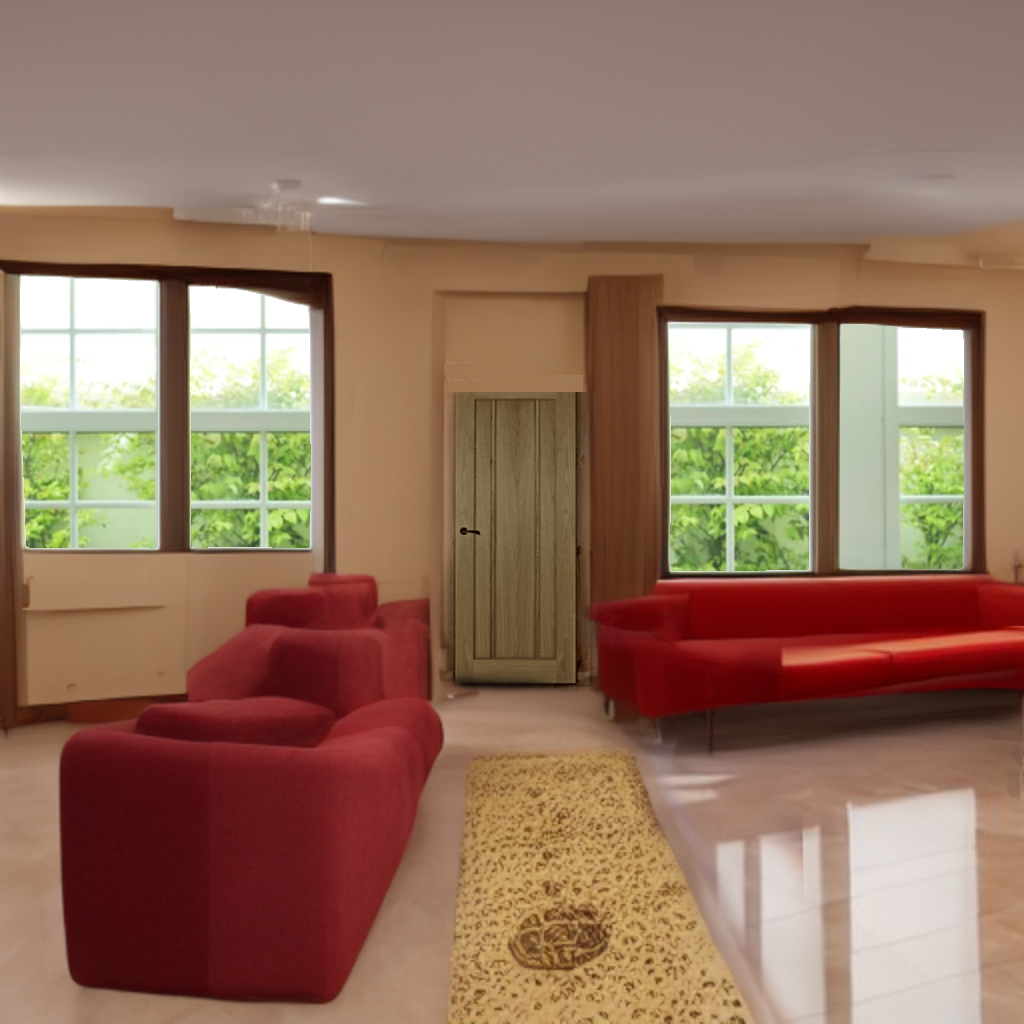
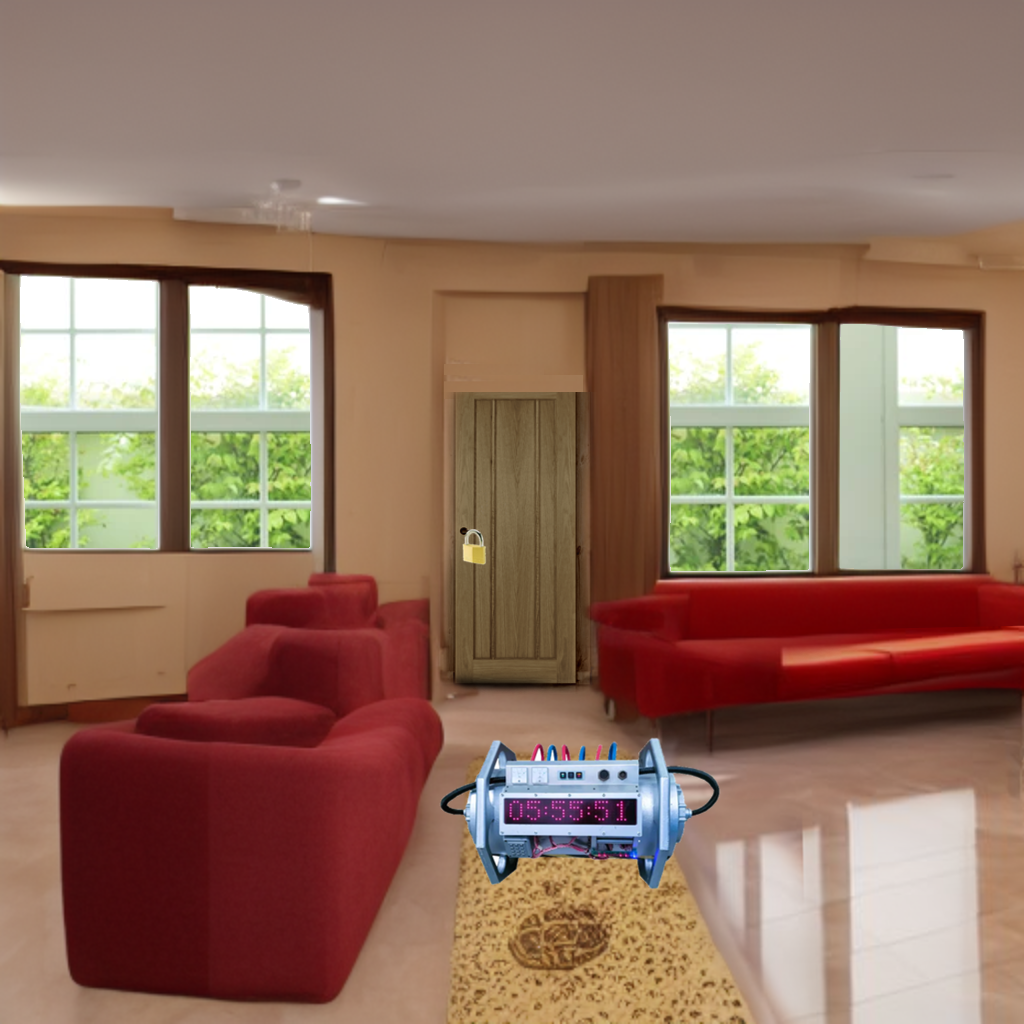
end

Changed region(s): [[0.4375, 0.7188, 0.7188, 0.875], [0.4375, 0.5, 0.5, 0.5625]]

diff --git a/Chapters/chapter1.js b/Chapters/chapter1.js
@@ -1,13 +1,17 @@
 ///// Global Variables /////
 currentRoom = "hall"
 hiddenItems = {kitchen:{}, hall:{}, lounge:{}, piano:{}, tv:{}}
-hiddenItems.piano["in the piano"] = "teddy bear"
+hiddenItems.lounge["under the rug"] = "a note, saying 'In the kitchen, search: 'in the fridge'"
+hiddenItems.kitchen["in the fridge"] = "a note, saying 'In the TV room, search: 'in the tv cabinet'"
+hiddenItems.kitchen["in the fruit bowl"] = "a note, saying 'In the TV room, search: 'in the fireplace'"
+hiddenItems.tv["under the armchair"] = "a note, saying 'In the piano room, search: 'in the piano'"
+hiddenItems.piano["in the piano"] = "RIPPED"
 roomFunctions={}
 
 ////// Page Functions //////
 
 function searchEnter() {
-  found = hiddenItems[currentRoom][input.value]
+  found = hiddenItems[currentRoom][input.value.toLowerCase()]
   if (found==null) {
     setPage ({
       showInput: false,
@@ -16,7 +20,16 @@ function searchEnter() {
         ["Okay", roomFunctions[currentRoom]]
       ]
     })
-  } else {
+  } else if (found=="RIPPED") {
+      setPage ({
+      showInput: false,
+      imageName: "Images/ripped.png",
+      text: "You search " + input.value + ". You find a strange ripped half of a note.",
+      buttons: [
+        ["Huzzah", roomFunctions[currentRoom]]
+      ]
+    })
+  } else{
     setPage ({
       showInput: false,
       text: "You search " + input.value + ". You find a " + found + "! (:",
@@ -39,6 +52,28 @@ function search() {
   })
 }
 
+function start() {
+  setPage ({
+    showInput: false,
+    imageName: "Images/lounge.png",
+    text: "You have arrived in a strange haunted house.\nThe door locks behind you, and an ominous ticking sounds.\nYou need a 5-digit code to deactivate the bomb.",
+    buttons: [
+      ["Oh no!", exp]
+    ]
+  })
+}
+
+function exp() {
+  setPage ({
+    showInput: false,
+    imageName: "Images/lounge.png",
+    text: "You will need to collect 5 magical mattes to solve this mystery.\nEach room has a 'search' button.\nTo begin, 'search' in this room 'under the rug'.",
+    buttons: [
+      ["Okay then", roomFunctions.lounge]
+    ]
+  })
+}
+
 
 
 roomFunctions.hall = function() {
@@ -46,14 +81,24 @@ roomFunctions.hall = function() {
   setPage ({
     showInput: false,
     imageName: "Images/south_hallway.jpeg",
-    text: "You are in a hallway.\nBehind you is the kitchen.\nIn front is a lounge / music room.\nTo your left are doors to a utility room and a bathroom.\nTo your right are doors to an office and a bedroom.",
+    text: "You are in a hallway.\nAhead of you is the kitchen.\nBehind is a lounge area.\nAll the side doors seem to be locked.",
     buttons: [
-      ["Behind - enter kitchen", roomFunctions.hall],
-      ["Left door #1 - enter utility", roomFunctions.hall],
-      ["Left door #2 - enter bathroom", roomFunctions.hall],
-      ["Right door #1 - enter office", roomFunctions.hall],
-      ["Right door #2 - enter bedroom", roomFunctions.hall],
-      ["Ahead - enter lounge", roomFunctions.lounge],
+      ["Search", search],
+      ["Ahead - enter kitchen", roomFunctions.kitchen],
+      ["Behind - enter lounge", roomFunctions.lounge],
+    ]
+  })
+}
+
+roomFunctions.kitchen = function() {
+  currentRoom = "kitchen"
+  setPage ({
+    showInput: false,
+    imageName: "Images/kitchen.jpg",
+    text: "You are in a kitchen. Behind you is the hallway.",
+    buttons: [
+      ["Search", search],
+      ["Behind - enter hallway", roomFunctions.hall],
     ]
   })
 }
@@ -65,6 +110,7 @@ roomFunctions.lounge = function () {
     imageName: "Images/lounge.png",
     text: "You are in a lounge with a piano to the right and a TV to the left. The hallway is behind you.",
     buttons: [
+      ["Search", search],
       ["Left - TV", roomFunctions.tv],
       ["Behind - enter hallway", roomFunctions.hall],
       ["Ahead - try door", roomFunctions.hall],

diff --git a/index.html b/index.html
@@ -16,5 +16,5 @@
 
 <script src="engine.js"> </script>
 <script src="Chapters/chapter1.js"> </script>
-<script> roomFunctions.lounge() </script>
+<script> start() </script>
 
